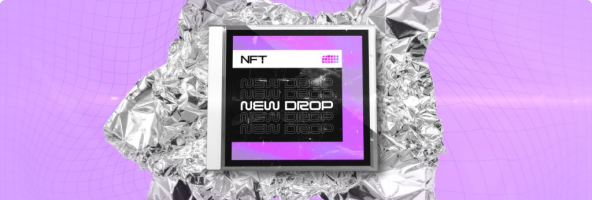
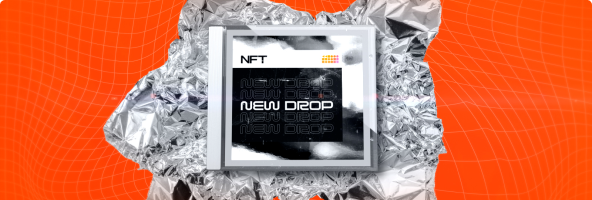
hero updated

diff --git a/components/Homepage/Hero.tsx b/components/Homepage/Hero.tsx
@@ -1,5 +1,5 @@
 import Image from "next/image"
-import HeroImg from "../../public/homepage/hero-mobile.png"
+import HeroImg from "../../public/homepage/hero-background.png"
 import Button from "../ui/Button"
 
 interface HeroProps {
@@ -11,9 +11,9 @@ export const Hero = ({ journeyId }: HeroProps) => {
     <div className="bg-black">
       <div className="max-w-[1440px] mx-auto md:bg-hero-background bg-contain bg-no-repeat bg-right">
         <div className="pb-20 md:py-20 px-4 md:px-28" id="home">
-          <div className="h-[475px] phone:h-[512px] md:hidden">
-            <Image className="max-h-[700px] w-auto -mt-[35%] phone:-mt-[30%] sm:-mt-[25%] mx-auto md:hidden z-0" src={HeroImg} alt="hero" />
-          </div>
+          {/* <div className="h-[475px] phone:h-[512px] md:hidden"> */}
+            <Image className="w-auto mx-auto md:hidden" src={HeroImg} alt="hero" />
+          {/* </div> */}
           <div className="text-heading-4 md:text-heading-5 lg:text-heading-3 xl:text-heading-2 font-semibold tracking-tighter">Ledger <span className="text-purple">Developer</span> Portal</div>
           <div className="text-heading-6 lg:text-heading-5 font-semibold tracking-tight mt-5">
             <p><span className="text-purple">Build</span> with Ledger to bring <span className="text-purple">security</span> to your community.</p>

diff --git a/tailwind.config.js b/tailwind.config.js
@@ -48,7 +48,7 @@ module.exports = {
         }
       },
       backgroundImage: {
-        "hero-background": "linear-gradient(269deg, #000 7.78%, rgba(0, 0, 0, 0.00) 15.8%), linear-gradient(96deg, rgba(0, 0, 0, 0.80) 36.2%, rgba(0, 0, 0, 0.80) 36.2%, rgba(0, 0, 0, 0.00) 53.12%), url(/homepage/hero-desktop.png)",
+        "hero-background": "url(/homepage/hero-background.png)",
         "purple-radial-gradient": "radial-gradient(61.07% 61.05% at 50.8% 98.5%, #4F3167 0%, #000 100%)",
         "nano-background": "linear-gradient(103deg, #000 42.94%, rgba(0, 0, 0, 0.00) 59.62%), url('/homepage/nano-background.png')",
         "nano-background-mobile": "linear-gradient(103deg, #000 42.94%, rgba(0, 0, 0, 0.00) 59.62%), url('/homepage/nano-background.png')",
